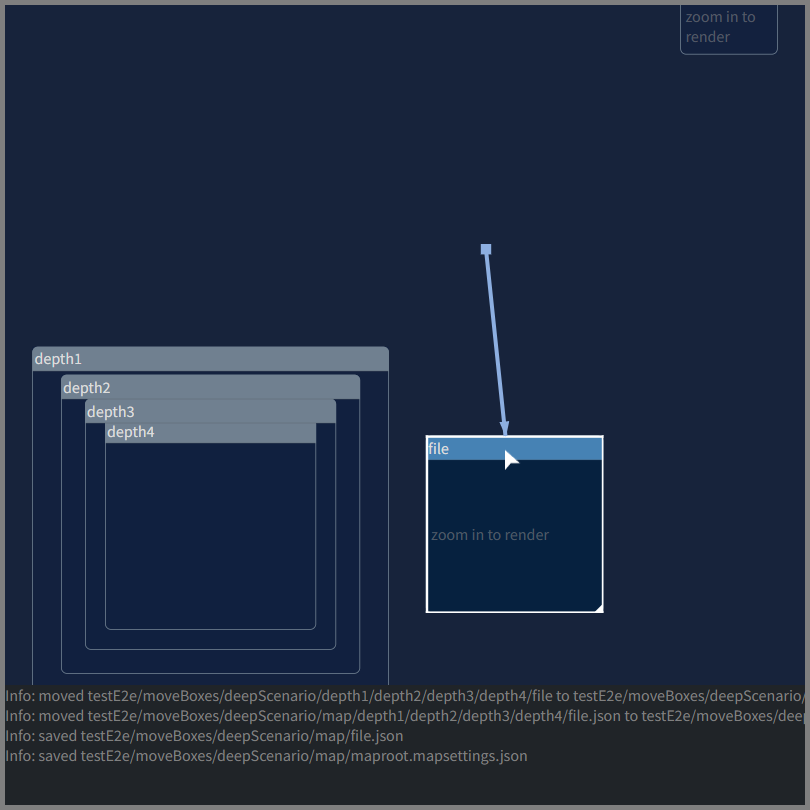
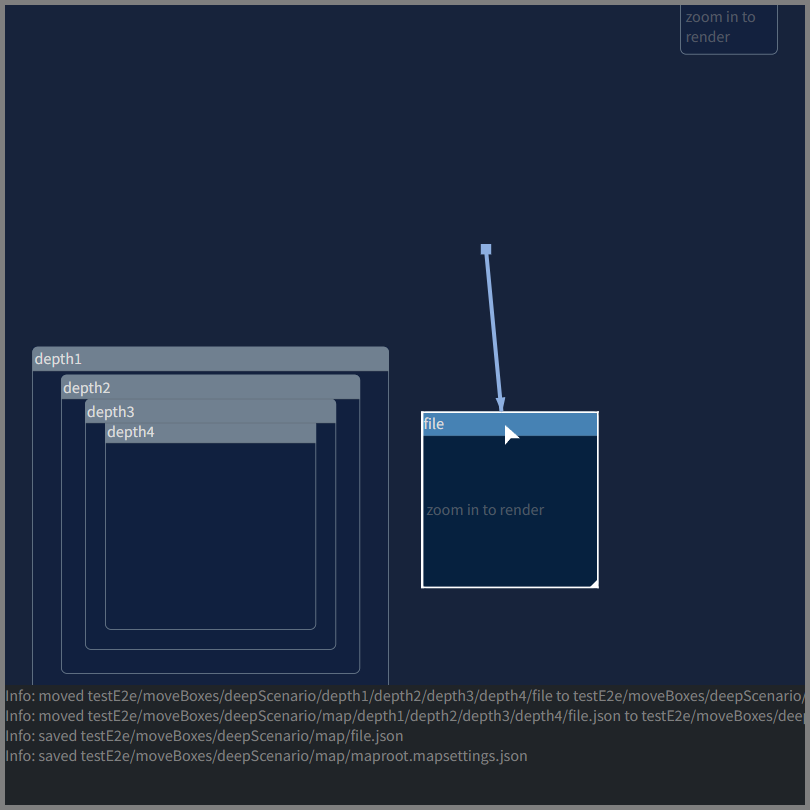
improve, stabilize e2e tests

Changed region(s): [[0.4938, 0.4938, 0.7716, 0.7716], [0.5864, 0.3704, 0.6173, 0.463]]

diff --git a/testE2e/moveBoxes/moveBoxes.test.ts b/testE2e/moveBoxes/moveBoxes.test.ts
@@ -16,12 +16,12 @@ test('move box', async () => {
 
     await dragTo(200, 400)
     expectedLogs.push('Info: saved testE2e/moveBoxes/scenario/map/0fj1mk72of8/q6shnoldabo.json')
-    expect(await gui.getLogs()).toEqual(expectedLogs)
+    await gui.waitUntilLogsEqual(expectedLogs, 100)
     await e2eUtil.expectImageToMatchSnapshot({image: await gui.takeScreenshot(), snapshotIdentifier: snapshotIdentifier+'-moved'})
 
     await dragTo(150, 400)
     expectedLogs.push('Info: saved testE2e/moveBoxes/scenario/map/0fj1mk72of8/q6shnoldabo.json')
-    expect(await gui.getLogs()).toEqual(expectedLogs)
+    await gui.waitUntilLogsEqual(expectedLogs, 100)
     await gui.clearTerminal()
     await e2eUtil.expectImageToMatchSnapshot({image: await gui.takeScreenshot(), snapshotIdentifier: snapshotIdentifier+'-origin'})
 })
@@ -41,7 +41,7 @@ test('move box to other folder', async () => {
     expectedLogs.push('Info: moved testE2e/moveBoxes/scenario/map/0fj1mk72of8/q6shnoldabo.json to testE2e/moveBoxes/scenario/map/q6shnoldabo.json')
     expectedLogs.push('Info: saved testE2e/moveBoxes/scenario/map/q6shnoldabo.json')
     expectedLogs.push('Info: saved testE2e/moveBoxes/scenario/map/maproot.mapsettings.json')
-    expect(await gui.getLogs()).toEqual(expectedLogs)
+    await gui.waitUntilLogsEqual(expectedLogs, 100)
     await e2eUtil.expectImageToMatchSnapshot({image: await gui.takeScreenshot(), snapshotIdentifier: snapshotIdentifier+'-moved-to-other-folder'})
 
     await dragTo(150, 400)
@@ -49,7 +49,7 @@ test('move box to other folder', async () => {
     expectedLogs.push('Info: moved testE2e/moveBoxes/scenario/map/q6shnoldabo.json to testE2e/moveBoxes/scenario/map/0fj1mk72of8/q6shnoldabo.json')
     expectedLogs.push('Info: saved testE2e/moveBoxes/scenario/map/0fj1mk72of8/q6shnoldabo.json')
     expectedLogs.push('Info: saved testE2e/moveBoxes/scenario/map/maproot.mapsettings.json')
-    expect(await gui.getLogs()).toEqual(expectedLogs)
+    await gui.waitUntilLogsEqual(expectedLogs, 100)
     await gui.clearTerminal()
     await e2eUtil.expectImageToMatchSnapshot({image: await gui.takeScreenshot(), snapshotIdentifier: snapshotIdentifier+'-origin'})
 })
@@ -68,12 +68,12 @@ test('move deep box to other folder', async () => {
     expect(await gui.getLogs()).toEqual(expectedLogs)
     await e2eUtil.expectImageToMatchSnapshot({image: await gui.takeScreenshot(), snapshotIdentifier: snapshotIdentifier+'-origin'})
 
-    await dragTo(500, 445)
+    await dragTo(500, 420)
     expectedLogs.push('Info: moved testE2e/moveBoxes/deepScenario/depth1/depth2/depth3/depth4/file to testE2e/moveBoxes/deepScenario/file')
     expectedLogs.push('Info: moved testE2e/moveBoxes/deepScenario/map/depth1/depth2/depth3/depth4/file.json to testE2e/moveBoxes/deepScenario/map/file.json')
     expectedLogs.push('Info: saved testE2e/moveBoxes/deepScenario/map/file.json')
     expectedLogs.push('Info: saved testE2e/moveBoxes/deepScenario/map/maproot.mapsettings.json')
-    expect(await gui.getLogs()).toEqual(expectedLogs)
+    await gui.waitUntilLogsEqual(expectedLogs, 100)
     await e2eUtil.expectImageToMatchSnapshot({image: await gui.takeScreenshot(), snapshotIdentifier: snapshotIdentifier+'-moved-to-other-folder'})
 
     await dragTo(200, 445)
@@ -81,7 +81,7 @@ test('move deep box to other folder', async () => {
     expectedLogs.push('Info: moved testE2e/moveBoxes/deepScenario/map/file.json to testE2e/moveBoxes/deepScenario/map/depth1/depth2/depth3/depth4/file.json')
     expectedLogs.push('Info: saved testE2e/moveBoxes/deepScenario/map/depth1/depth2/depth3/depth4/file.json')
     expectedLogs.push('Info: saved testE2e/moveBoxes/deepScenario/map/maproot.mapsettings.json')
-    expect(await gui.getLogs()).toEqual(expectedLogs)
+    await gui.waitUntilLogsEqual(expectedLogs, 100)
     await gui.clearTerminal()
     await e2eUtil.expectImageToMatchSnapshot({image: await gui.takeScreenshot(), snapshotIdentifier: snapshotIdentifier+'-origin'})
 })
@@ -104,8 +104,7 @@ test('move box with many links to other folder', async () => {
     for (let i = 0; i < 13; i++) {
         expectedLogs.push('Info: saved testE2e/moveBoxes/scenarioWithManyLinks/map/maproot.mapsettings.json')
     }
-    await coreUtil.wait(50) // TODO: otherwise operation may not have finished, improve
-    expect(await gui.getLogs()).toEqual(expectedLogs)
+    await gui.waitUntilLogsEqual(expectedLogs, 100)
     await e2eUtil.expectImageToMatchSnapshot({image: await gui.takeScreenshot(), snapshotIdentifier: snapshotIdentifier+'-moved-to-other-folder'})
 
     await dragTo(150, 400)
@@ -115,17 +114,17 @@ test('move box with many links to other folder', async () => {
     for (let i = 0; i < 13; i++) {
         expectedLogs.push('Info: saved testE2e/moveBoxes/scenarioWithManyLinks/map/maproot.mapsettings.json')
     }
-    await coreUtil.wait(50) // TODO: otherwise operation may not have finished, improve
-    expect(await gui.getLogs()).toEqual(expectedLogs)
+    await gui.waitUntilLogsEqual(expectedLogs, 100)
     await gui.clearTerminal()
     await e2eUtil.expectImageToMatchSnapshot({image: await gui.takeScreenshot(), snapshotIdentifier: snapshotIdentifier+'-origin'})
 })
 
 async function dragTo(x: number, y: number): Promise<void> {
     await gui.mouseDown()
+    await gui.fireMouseOver(x, y) // somehow puppeteer does not fire mouseover events while mousedown, TODO: check if playwright works better and switch to playwright if so
     await gui.moveMouseTo(x, y)
     await gui.fireMouseOver(x, y) // somehow puppeteer does not fire mouseover events while mousedown, TODO: check if playwright works better and switch to playwright if so
     await coreUtil.wait(10) // TODO: otherwise operation may not have finished, improve
     await gui.mouseUp()
-    await coreUtil.wait(10) // TODO: otherwise operation may not have finished, improve
+    // await waitUntilLastLogIncludes(`dragging to {x: ${x}, y: ${y}} finished`) TODO: move general function into guiAdapter
 }

diff --git a/testE2e/guiAdapter.ts b/testE2e/guiAdapter.ts
@@ -97,9 +97,9 @@ export async function zoomWithoutWaitingInBetween(deltas: number[]): Promise<voi
   for (const delta of deltas) {
     await zoomWithoutWaitingUntilFinished(delta)
   }
-  await waitUntilLogMatches((log: string): boolean => {
+  await waitUntilLogsMatch((logs: string[]): boolean => {
     for (const delta of deltas) {
-      if (!log.includes(`zooming ${delta} finished`)) {
+      if (!logs.some(log => log.includes(`zooming ${delta} finished`))) {
         return false
       }
     }
@@ -131,7 +131,7 @@ export async function closeFolder(): Promise<void> {
 
 export async function clearTerminal(): Promise<void> {
   await command('clear')
-  await waitUntilLogMatches((log: string) => log === '', 500)
+  await waitUntilLogsEqual([], 500)
 }
 
 export async function startBoxIterator(): Promise<void> {
@@ -192,6 +192,25 @@ async function removeFocus(): Promise<void> {
   }
 }
 
+export async function waitUntilLogsEqual(expectedLogs: string[], timelimitInMs: number): Promise<void> {
+  try {
+    await waitUntilLogsMatch((logs: string[]) => {
+      if (logs.length !== expectedLogs.length) {
+        return false
+      }
+      for (let i = 0; i < logs.length; i++) {
+        if (logs[i] !== expectedLogs[i]) {
+          return false
+        }
+      }
+      return true
+    }, timelimitInMs)
+  } catch (error) {
+    console.trace(error)
+  }
+  expect(await getLogs()).toEqual(expectedLogs) // for nice message
+}
+
 async function waitUntilLastLogEndsWith(ending: string, timelimitInMs: number): Promise<string> {
   return waitUntilLastLogMatches(
     (log: string) => log.endsWith(ending),
@@ -214,6 +233,7 @@ async function waitUntilLastLogMatches(
   generateErrorMessage: (lastLog: string) => string
 ): Promise<string> {
   const timecap: number = Date.now() + timelimitInMs
+  let nextSleepInMs: number = 1
   while(true) {
     const lastLog: string = await getLastLog()
     if (condition(lastLog)) {
@@ -222,24 +242,27 @@ async function waitUntilLastLogMatches(
     if (Date.now() > timecap) {
       throw new Error(generateErrorMessage(lastLog))
     }
-    await util.wait(50)
+    await util.wait(nextSleepInMs)
+    nextSleepInMs *= 2
   }
 }
 
-async function waitUntilLogMatches(condition:(log: string) => boolean, timelimitInMs: number): Promise<void> {
+async function waitUntilLogsMatch(condition:(logs: string[]) => boolean, timelimitInMs: number): Promise<void> {
   const timecap: number = Date.now() + timelimitInMs
+  let nextSleepInMs: number = 1
   while(true) {
-    const log: string = await getContentOf(await getLogElement())
-    if (condition(log)) {
+    const logs: string[] = await getLogs()
+    if (condition(logs)) {
       return
     }
     if (Date.now() > timecap) {
-      let message = `Log does not match condition in time of ${timelimitInMs}ms.`
+      let message = `Logs do not match condition in time of ${timelimitInMs}ms.`
       message += `\nCondition is: "${condition}".`
-      message += `\nLog is: "${log}".`
+      message += `\nLogs are: "${logs}".`
       throw new Error(message)
     }
-    await util.wait(50) // TODO: improve, start with short wait time and increase it incrementally
+    await util.wait(nextSleepInMs)
+    nextSleepInMs *= 2
   }
 }
 
